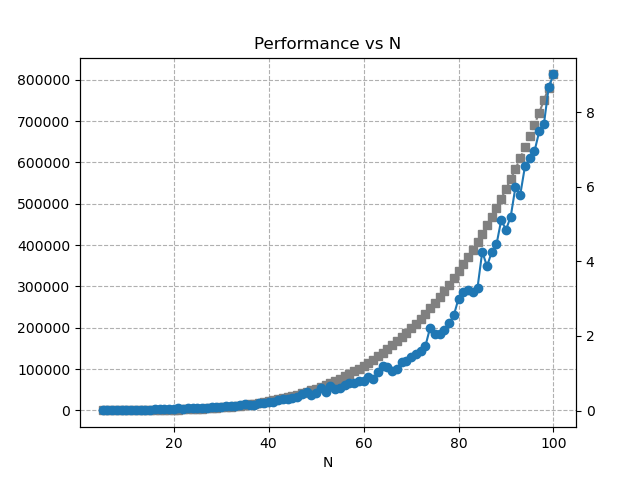
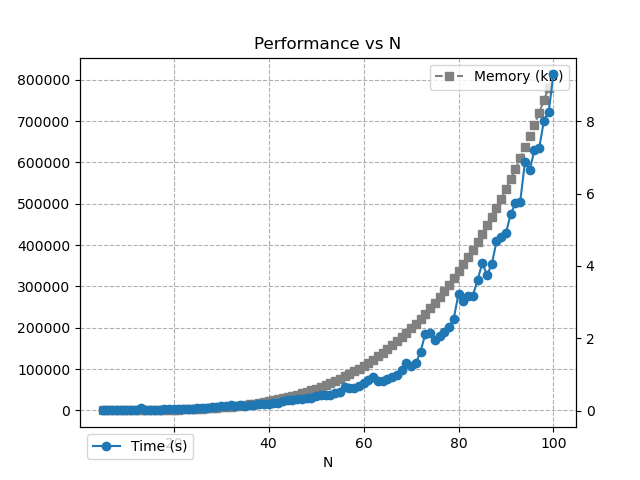
.

diff --git a/upper_lower_bound_curve_fitting.py b/upper_lower_bound_curve_fitting.py
@@ -44,7 +44,7 @@ def fitted_curves_plot(N_values_vec, error_values_vec, mem_values_vec, time_valu
     print(f"Upper Power law fit high : error ≈ {popt_pow_high[0]:.2e} · N^(-{popt_pow_high[1]:.3f}), R² = {r2_pow_high:.4f}")
     print(f"Lower Power law fit low: error ≈ {popt_pow_low[0]:.2e} · N^(-{popt_pow_low[1]:.3f}), R² = {r2_pow_low:.4f}")
     print(f"Power law fit mem: mem ≈ {memt[0]:.2e} · N^({-memt[1]:.3f}), R² = {r2_mem:.4f}")
-    print(f"Power law fit time: time ≈ {timet[0]:.2e} · N^({-timet[1]:.3f}), R² = {r2_mem:.4f}")
+    print(f"Power law fit time: time ≈ {timet[0]:.2e} · N^({-timet[1]:.3f}), R² = {r2_time:.4f}")
 
     # Smooth N values for plotting
     N_smooth = np.linspace(min(N_vals), max(N_vals), 300)
@@ -125,7 +125,7 @@ def fitted_curves_plot(N_values_vec, error_values_vec, mem_values_vec, time_valu
     plt.figure()
     plt.loglog(N_vals, time_vals, 'ko', label='Data')
     plt.loglog(N_smooth, time_smooth, 'r-',
-               label=f"Power law fit time: time ≈ {timet[0]:.2e} · N^({-timet[1]:.3f}), R² = {r2_mem:.4f}")
+               label=f"Power law fit time: time ≈ {timet[0]:.2e} · N^({-timet[1]:.3f}), R² = {r2_time:.4f}")
     plt.xlabel('N')
     plt.ylabel('Time')
     plt.title('Time vs N (log Scale)')

diff --git a/multiple_non_optimized.py b/multiple_non_optimized.py
@@ -68,8 +68,8 @@ def trace_mem_time_err(N, mem, err, tt):
     ax1.set_title('Performance vs N')
     ax1.set_xlabel('N')
     ax1.grid(True, which='both', linestyle='--')
-    ax1.legend('right')
-    ax2.legend('left')
+    ax1.legend(loc='upper right',bbox_to_anchor=(1.0, 1.0))
+    ax2.legend(loc='upper left',bbox_to_anchor=(0.0, 0.0))
     fig1.savefig(f'N={N[-1]}_Performance_vs_N.png')
 
     # Plot of error vs N
